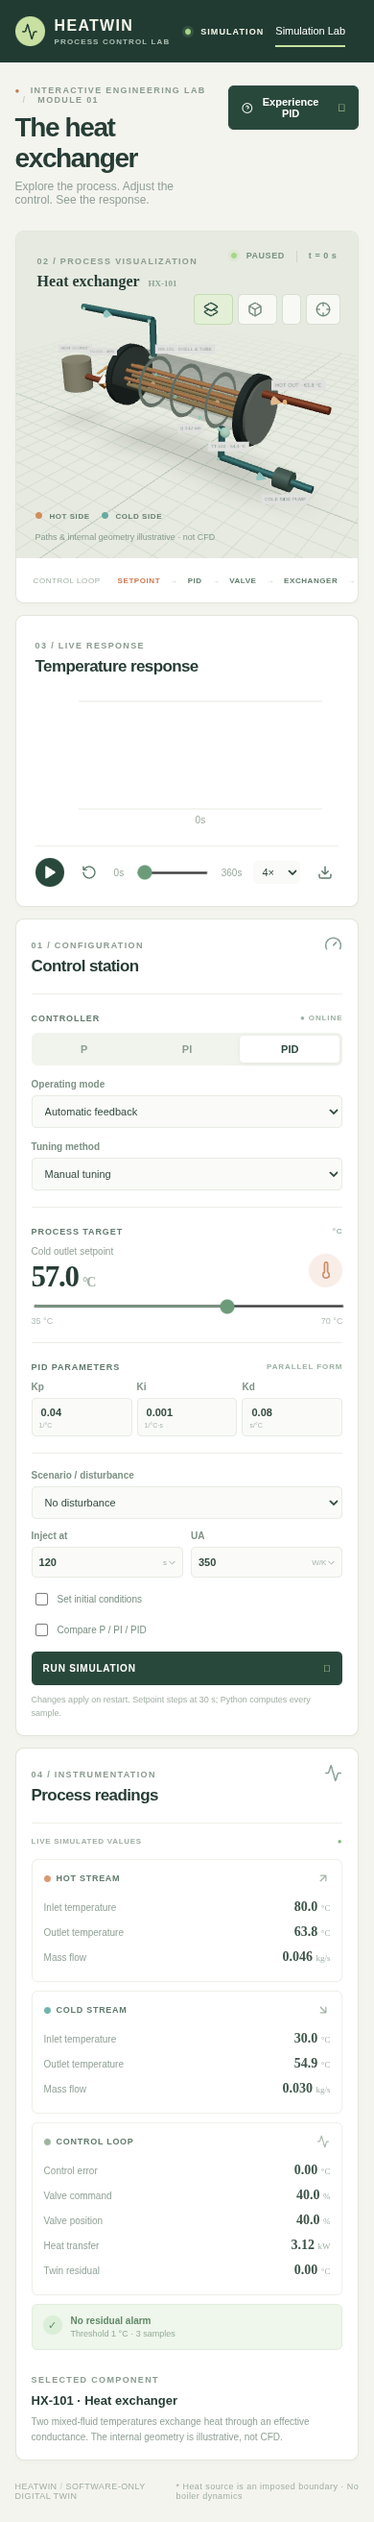
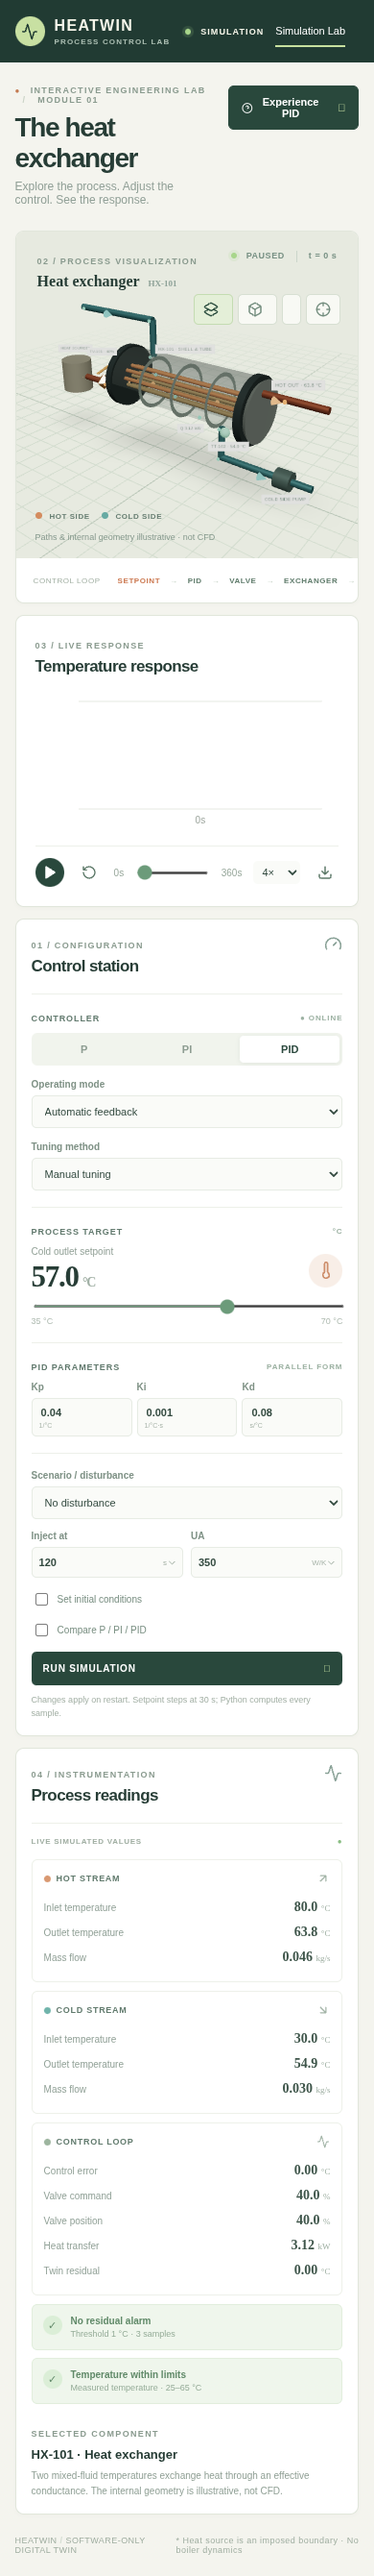
Expose measured temperature limit alarms

diff --git a/frontend/src/main.tsx b/frontend/src/main.tsx
@@ -139,6 +139,7 @@ const empty: Sample = {
   twin: 54.87,
   residual: 0,
   alarm: false,
+  safety_alarm: false,
   hot_flow: 0.046,
   heat_w: 3000,
 };
@@ -934,6 +935,17 @@ function App() {
                     ? "Anomaly detected; cause not identified."
                     : "Threshold 1 °C · 3 samples"}
                 </small>
+              </div>
+            </div>
+            <div className={`alarm ${sample.safety_alarm ? "triggered" : ""}`}>
+              <span>{sample.safety_alarm ? "!" : "✓"}</span>
+              <div>
+                <b>
+                  {sample.safety_alarm
+                    ? "Temperature limit alarm"
+                    : "Temperature within limits"}
+                </b>
+                <small>Measured temperature · 25–65 °C</small>
               </div>
             </div>
             <div className="component-card">

diff --git a/frontend/tests/lab.spec.ts b/frontend/tests/lab.spec.ts
@@ -98,6 +98,11 @@ test("new setpoint uses authoritative valve dynamics and reset freezes playback"
     custom.runs.PID.samples[0].th,
     custom.runs.PID.samples[0].valve,
   ]).toEqual([45, 70, 0.5]);
+  await page.getByLabel("Initial cold").fill("70");
+  await page.getByRole("button", { name: "APPLY & RESTART" }).click();
+  await expect(
+    page.getByText("Temperature limit alarm", { exact: true }),
+  ).toBeVisible();
 });
 
 test("mobile layout keeps scene and controls reachable", async ({ page }) => {

diff --git a/frontend/src/types.ts b/frontend/src/types.ts
@@ -13,6 +13,7 @@ export type Sample = {
   twin: number;
   residual: number;
   alarm: boolean;
+  safety_alarm: boolean;
   hot_flow: number;
   heat_w: number;
 };

diff --git a/frontend/src/style.css b/frontend/src/style.css
@@ -1043,3 +1043,6 @@ footer b {
 .loop-bar .signal-active i {
   margin-right: 10px;
 }
+.alarm + .alarm {
+  margin-top: 8px;
+}

diff --git a/heatwin/api.py b/heatwin/api.py
@@ -13,7 +13,7 @@ from fastapi.middleware.cors import CORSMiddleware
 from pydantic import BaseModel, Field, field_validator
 
 from heatwin.core import Parameters, fit_fopdt, metrics, simulate
-from heatwin.diagnostics import predict_twin, residual_alarm
+from heatwin.diagnostics import predict_twin, residual_alarm, safety_limits
 from heatwin.tuning import tune
 
 app = FastAPI(title="HEATWIN simulation API")
@@ -131,6 +131,7 @@ def run(request: Request):
         data["twin"] = predict_twin(data.time, data.command, data.tc.iloc[0], *model)
         data["residual"] = data.measurement - data.twin
         data["alarm"] = residual_alarm(data.residual, 1.0, 3)
+        data["safety_alarm"] = safety_limits(data.measurement, 25.0, 65.0)
         data["hot_flow"] = 0.01 + 0.09 * data.valve
         data["heat_w"] = data.ua * (data.th - data.tc)
         view = data[data.time >= 30]

diff --git a/tests/test_api.py b/tests/test_api.py
@@ -60,3 +60,10 @@ def test_manual_mode_drives_actuator_with_lag():
     assert samples[30]["command"] == 0.7
     assert samples[30]["valve"] < samples[30]["command"]
     assert samples[40]["valve"] > samples[30]["valve"]
+
+
+def test_safety_alarm_uses_measured_temperature():
+    body = client.post(
+        "/api/run", json={"duration": 90, "initial_state": [70, 80, 0.4]}
+    ).json()
+    assert body["runs"]["PID"]["samples"][0]["safety_alarm"] is True

diff --git a/COMPLETION_CHECKLIST.md b/COMPLETION_CHECKLIST.md
@@ -10,8 +10,8 @@ The laboratory is a simulated educational prototype. Items marked incomplete are
 - [x] Comparison metrics, twin/residual charts, alarm indication and nine explanatory guided steps.
 - [ ] Live edits to an already-running solver without a restart; two simultaneous 3D twin views; automatic guided camera choreography. The loop highlight follows the replay clock and focus/reset interpolate the camera.
 - [ ] Full scientific or industrial validation: no physical data, no CFD, no boiler/pump dynamics; the included stuck valve can evade the residual alarm.
-- [x] A clean source snapshot installed both locked dependency sets and passed 34 Python tests, two frontend unit tests, lint/format, production build, three browser tests and both experiment scripts; numerical summaries matched. The subsequently added custom-initial-state case brings the local Python suite to 35 tests.
-- [x] A clean clone of the implementation passed locked installation, formatting, build, 35 Python tests and all three browser tests. A subsequent manual-valve regression test brings the local Python suite to 36.
+- [x] A clean source snapshot installed both locked dependency sets and passed 34 Python tests, two frontend unit tests, lint/format, production build, three browser tests and both experiment scripts; numerical summaries matched. Subsequent custom-initial-state, manual-valve and temperature-limit cases bring the local Python suite to 37 tests.
+- [x] A clean clone of the implementation passed locked installation, formatting, build, 35 Python tests and all three browser tests. Subsequent manual-valve and temperature-limit regression tests bring the local Python suite to 37.
 - [x] Remote delivery verified by comparing local HEAD with `git ls-remote`; repeat for any subsequent commit.
 
 Detailed mathematical assumptions and previous experiment results are in `docs/engineering.md` and `results/studies/summary.json`. The older `IMPLEMENTATION_PLAN.md` is a historical roadmap, not a completion record.

diff --git a/README.md b/README.md
@@ -44,7 +44,7 @@ React controls → FastAPI /api/run → Python plant + PID + identified twin
 3D process / instruments ← shared playback clock → charts, metrics and CSV
 ```
 
-The API calculates a deterministic complete trajectory per request. The browser replays it; no frontend code calculates the exchanger dynamics. Comparison mode runs three independent simulations with common initial state, setpoint, perturbation, sample time and seed. The twin is an open-loop FOPDT model fitted to a separate nominal step; it does not know hidden plant states or unmeasured disturbances. A residual exceeding 1 °C for three samples triggers an alarm.
+The API calculates a deterministic complete trajectory per request. The browser replays it; no frontend code calculates the exchanger dynamics. Comparison mode runs three independent simulations with common initial state, setpoint, perturbation, sample time and seed. The twin is an open-loop FOPDT model fitted to a separate nominal step; it does not know hidden plant states or unmeasured disturbances. A residual exceeding 1 °C for three samples triggers an anomaly alarm; the measured temperature also triggers a separate illustrative 25–65 °C limit alarm.
 
 The plant assumes constant properties, fixed holdup, perfect mixing, no heat loss, and no phase change:
 
